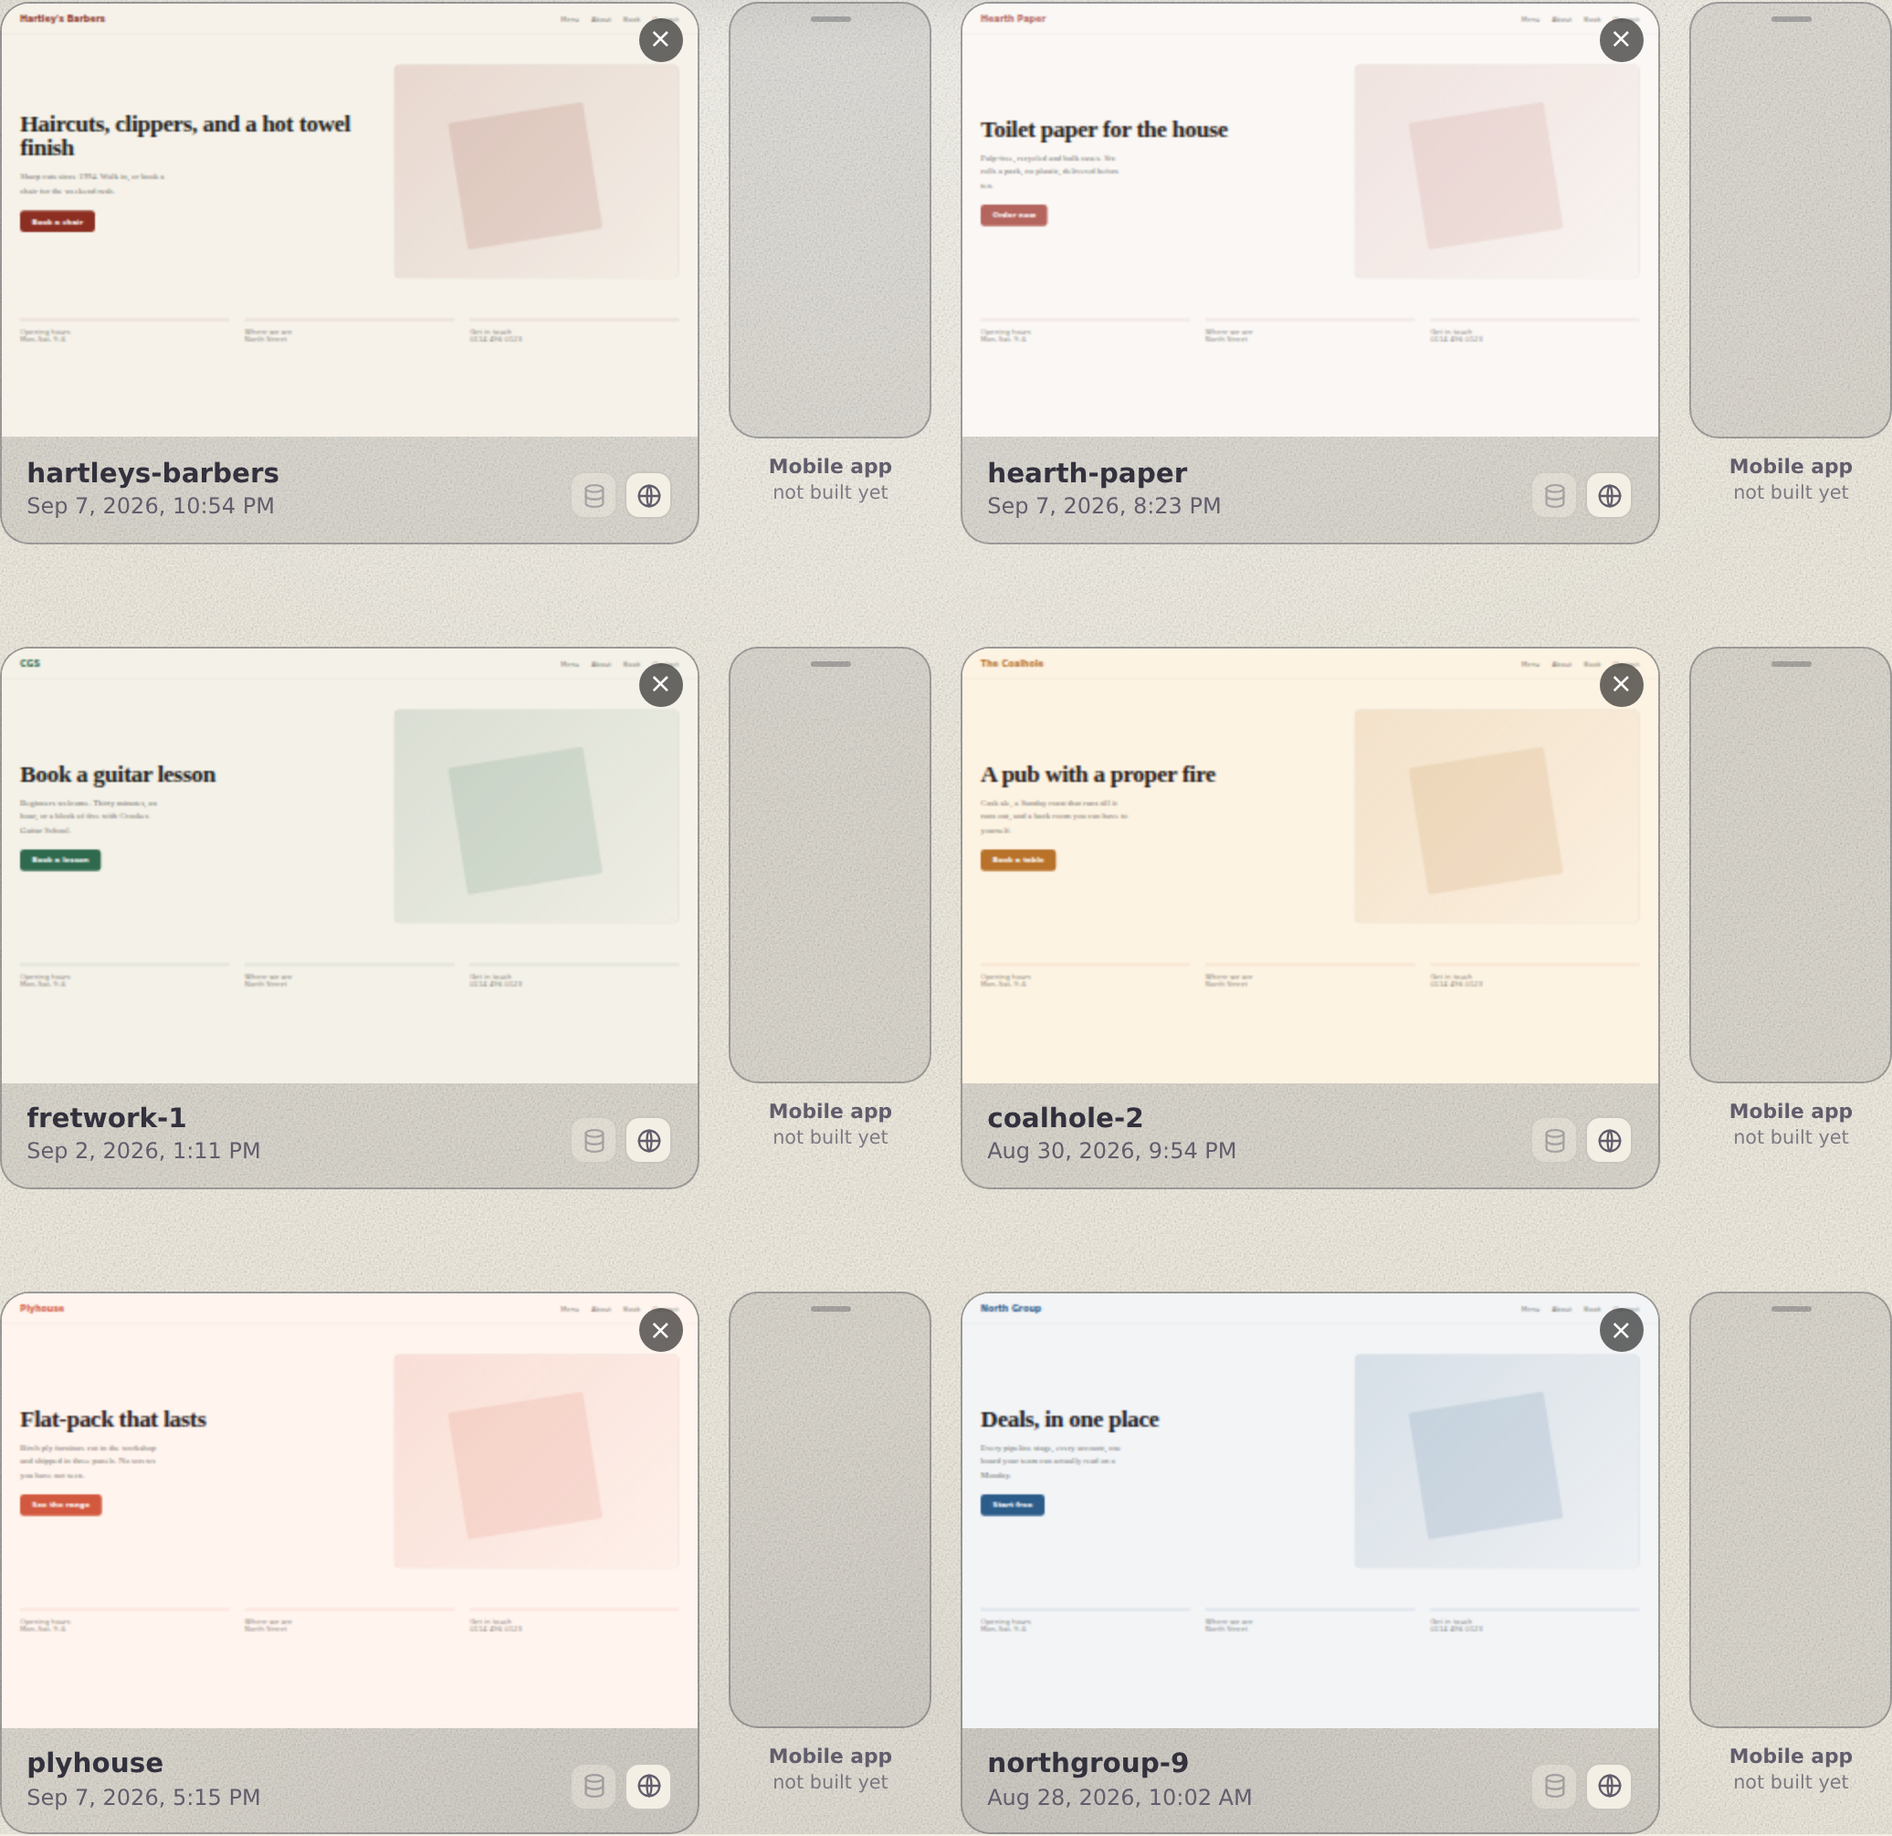
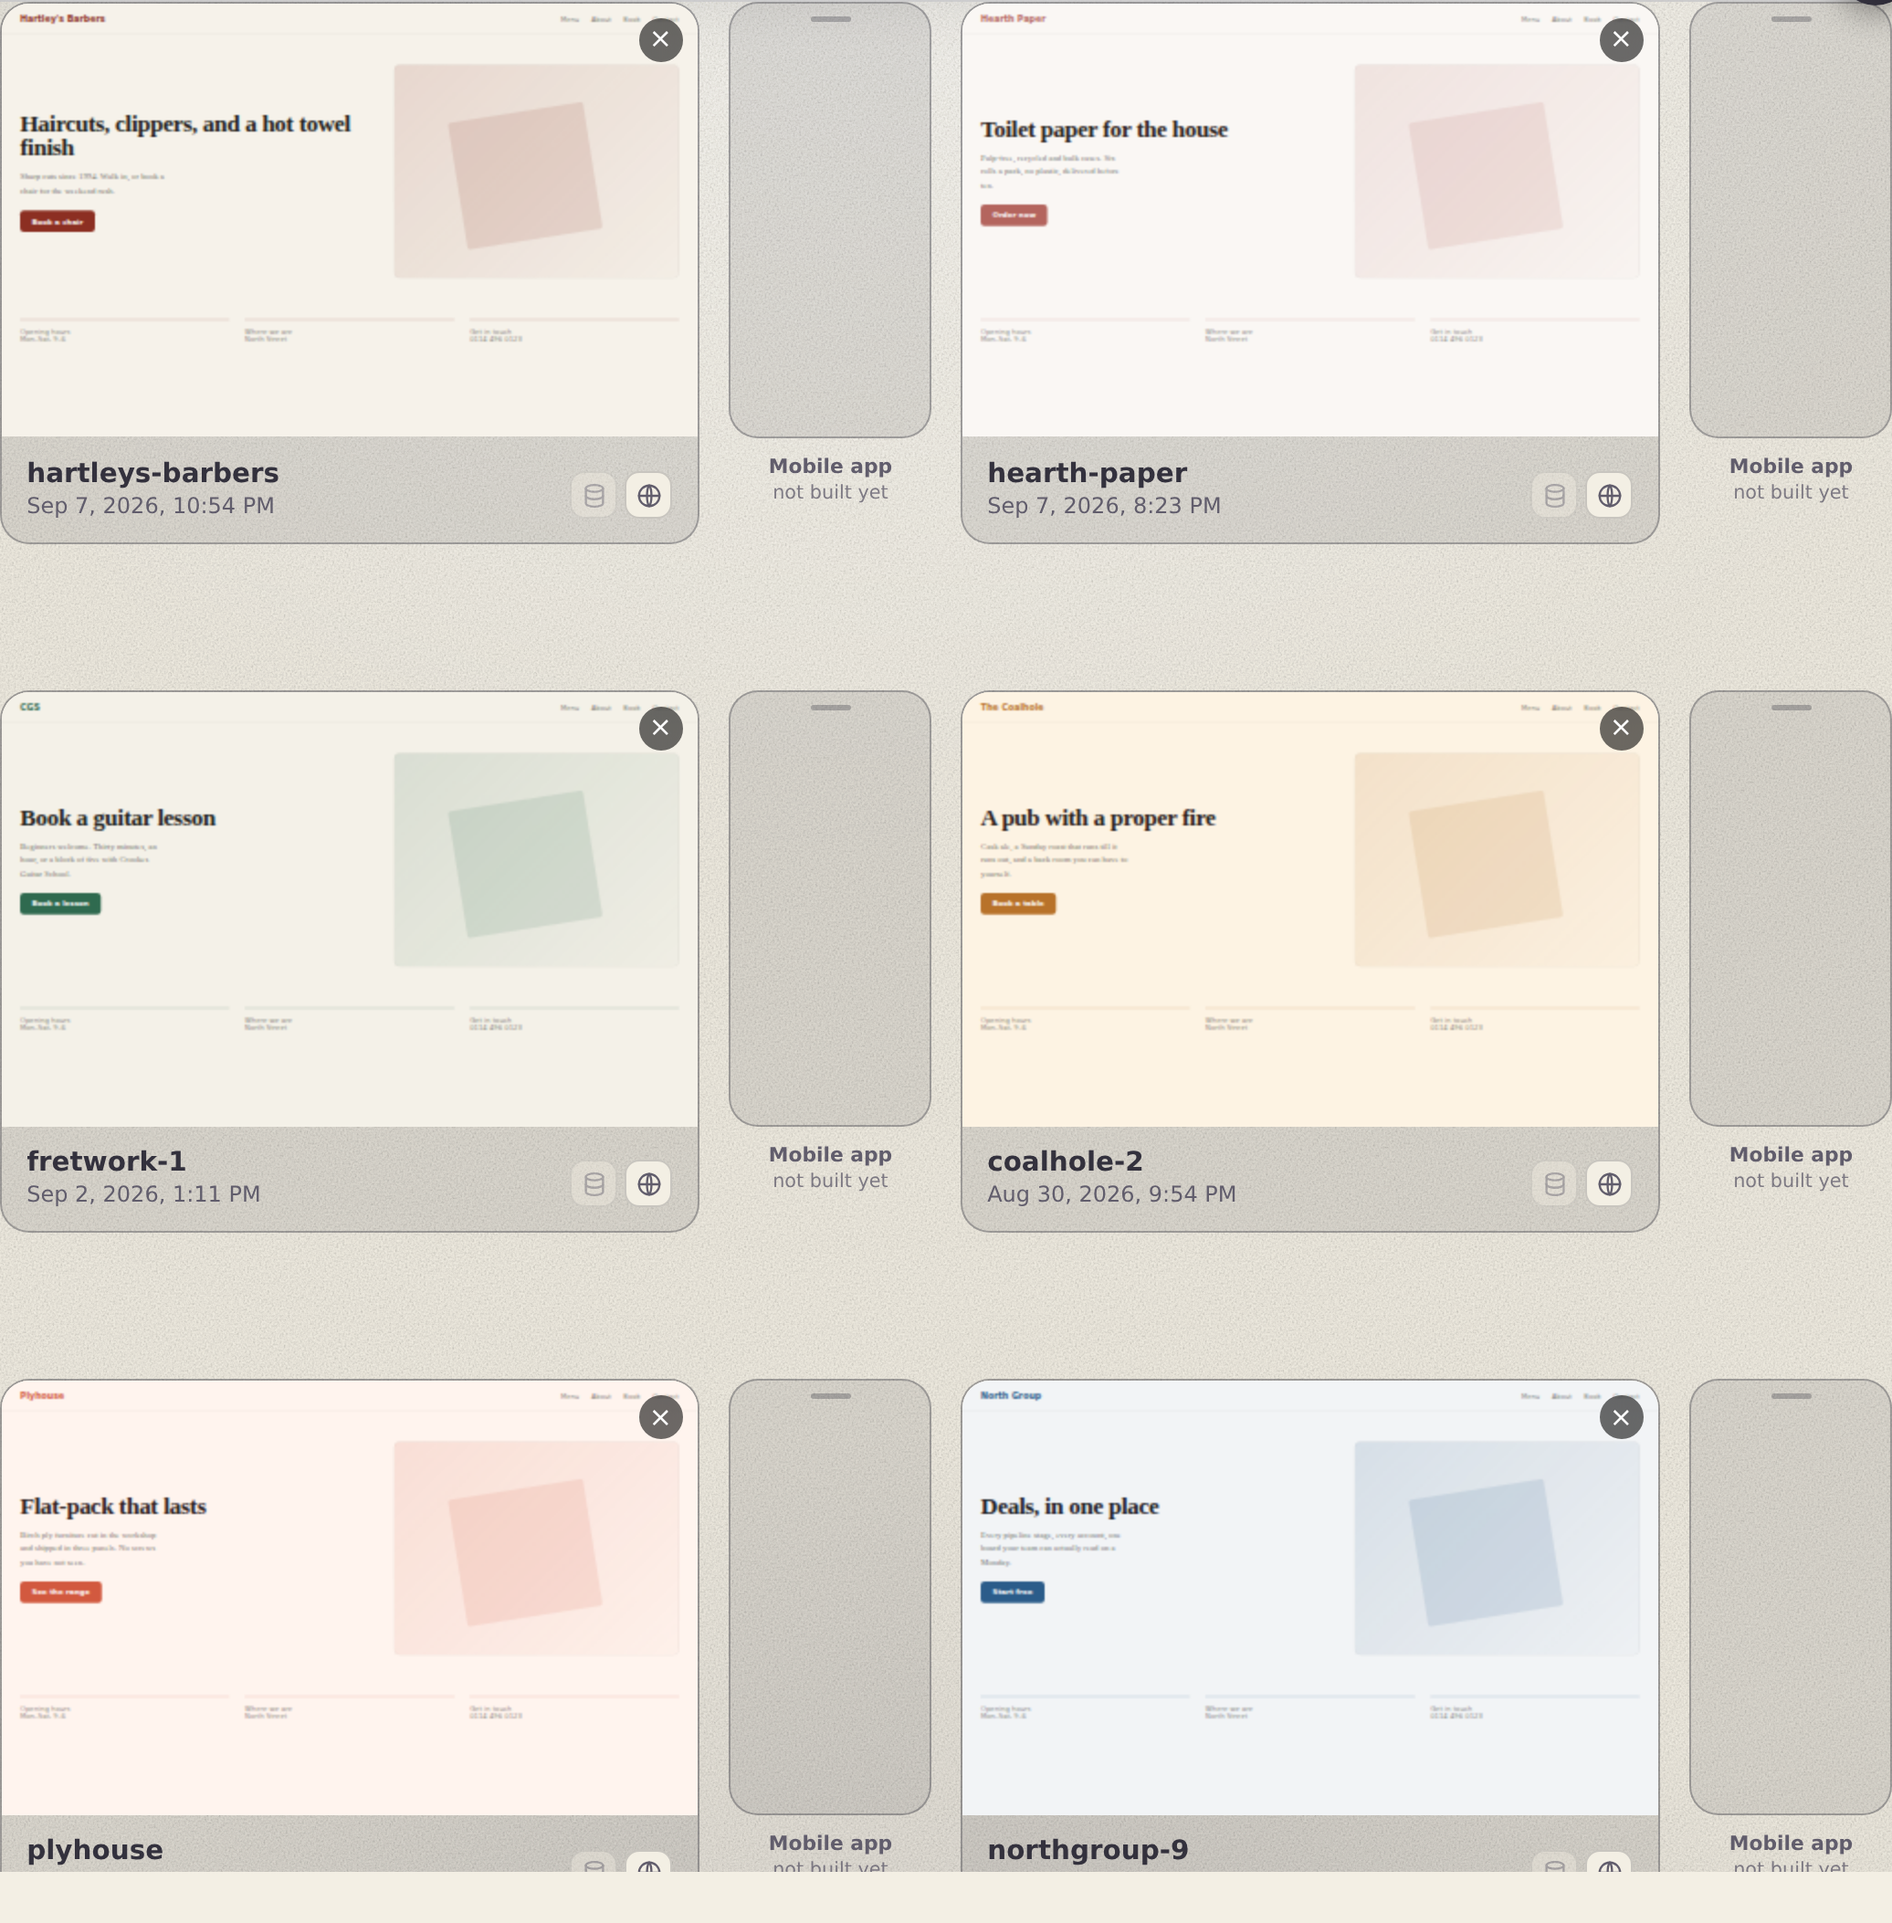
More space between the rows on the start screen: 56px -> 80px
Owner: "more space", on the 3.5rem that shipped an hour ago. row-gap 3.5rem ->
5rem, measured at 80px between one row's cards and the next's.

Nothing else moves: the card is 258 at every window width, the phone still
stands within a pixel of its thumbnail, and there is no page overflow - row gap
changes no width, which is the whole reason this axis is free and the horizontal
one is not.

The guard is unchanged and did not need to be: it requires the row gap to EXCEED
the column gap rather than pinning a number, precisely so tuning the amount is
not a test edit. The sweep's spec was re-anchored on the new value and re-run
whole: 30 mutants, 30 killed, none survived, none unapplied, two comment-only
controls survived.

Full suite 5,703. Renders refreshed.

Claude-Session: https://claude.ai/code/session_01Ro69RoRa3qPtpAd3uJk215

diff --git a/public/styles.css b/public/styles.css
@@ -1496,7 +1496,7 @@ body.in-sites .top-tab, body.in-sites .top-back { display: none !important; }
    `row-gap:` CONTAINS `gap:`, so a guard reading the column gap out of this rule
    would match whichever came first and silently take the wrong number into the
    card-width arithmetic below. Naming both removes the question. */
-.st-grid { display: grid; grid-template-columns: repeat(3, 1fr); column-gap: 1rem; row-gap: 3.5rem; }
+.st-grid { display: grid; grid-template-columns: repeat(3, 1fr); column-gap: 1rem; row-gap: 5rem; }
 @media (max-width: 1180px) { .st-grid { grid-template-columns: repeat(2, 1fr); } }
 @media (max-width: 760px) { .st-grid { grid-template-columns: 1fr; } }
 /* THE PHONE IS THE SITE SQUARE'S HEIGHT BY ARITHMETIC, NOT BY A NUMBER TYPED IN

diff --git a/CLAUDE.md b/CLAUDE.md
@@ -1470,8 +1470,8 @@ correction is a property a guard now holds.
   between every3"* → *"i mean like floor one to floor 2"*).** At one `gap` for
   both, the space between a phone and the next site was **16px** and the space
   INSIDE a pair was **16.8** — so six columns read as six columns, and a row ran
-  straight into the one under it. `column-gap: 1rem; row-gap: 3.5rem` now: 56px
-  between floors, measured. **The first reading of that ask was the wrong axis**
+  straight into the one under it. `column-gap: 1rem; row-gap: 5rem` now — 56px on the first cut,
+  then **80px** on a second *"more space"*, both measured. **The first reading of that ask was the wrong axis**
   — I built the horizontal case, found it fights *"leave the square the size it
   is"* (the page is capped at 1080, so wider gaps between pairs shrink the card
   to ~246) and was about to render the tradeoff when the owner said which axis.

diff --git a/docs/owner-notes.md b/docs/owner-notes.md
@@ -208,9 +208,9 @@ column, the phone's shape, and **zero** occurrences of the old phone icon.
 Nothing paid ran.
 
 **Then you asked for more space between the rows** — "floor one to floor 2".
-Done: **56 pixels** between one row and the next, where before it was 16, the
-same as the gap between columns, which is why a row ran straight into the one
-below it.
+Done, then more when you asked again: **80 pixels** between one row and the
+next, where before it was 16 — the same as the gap between columns, which is why
+a row ran straight into the one below it.
 
 I read that wrong the first time and started on the horizontal gap. Worth
 knowing why that one is not free: the page is capped at 1080 pixels wide, so
